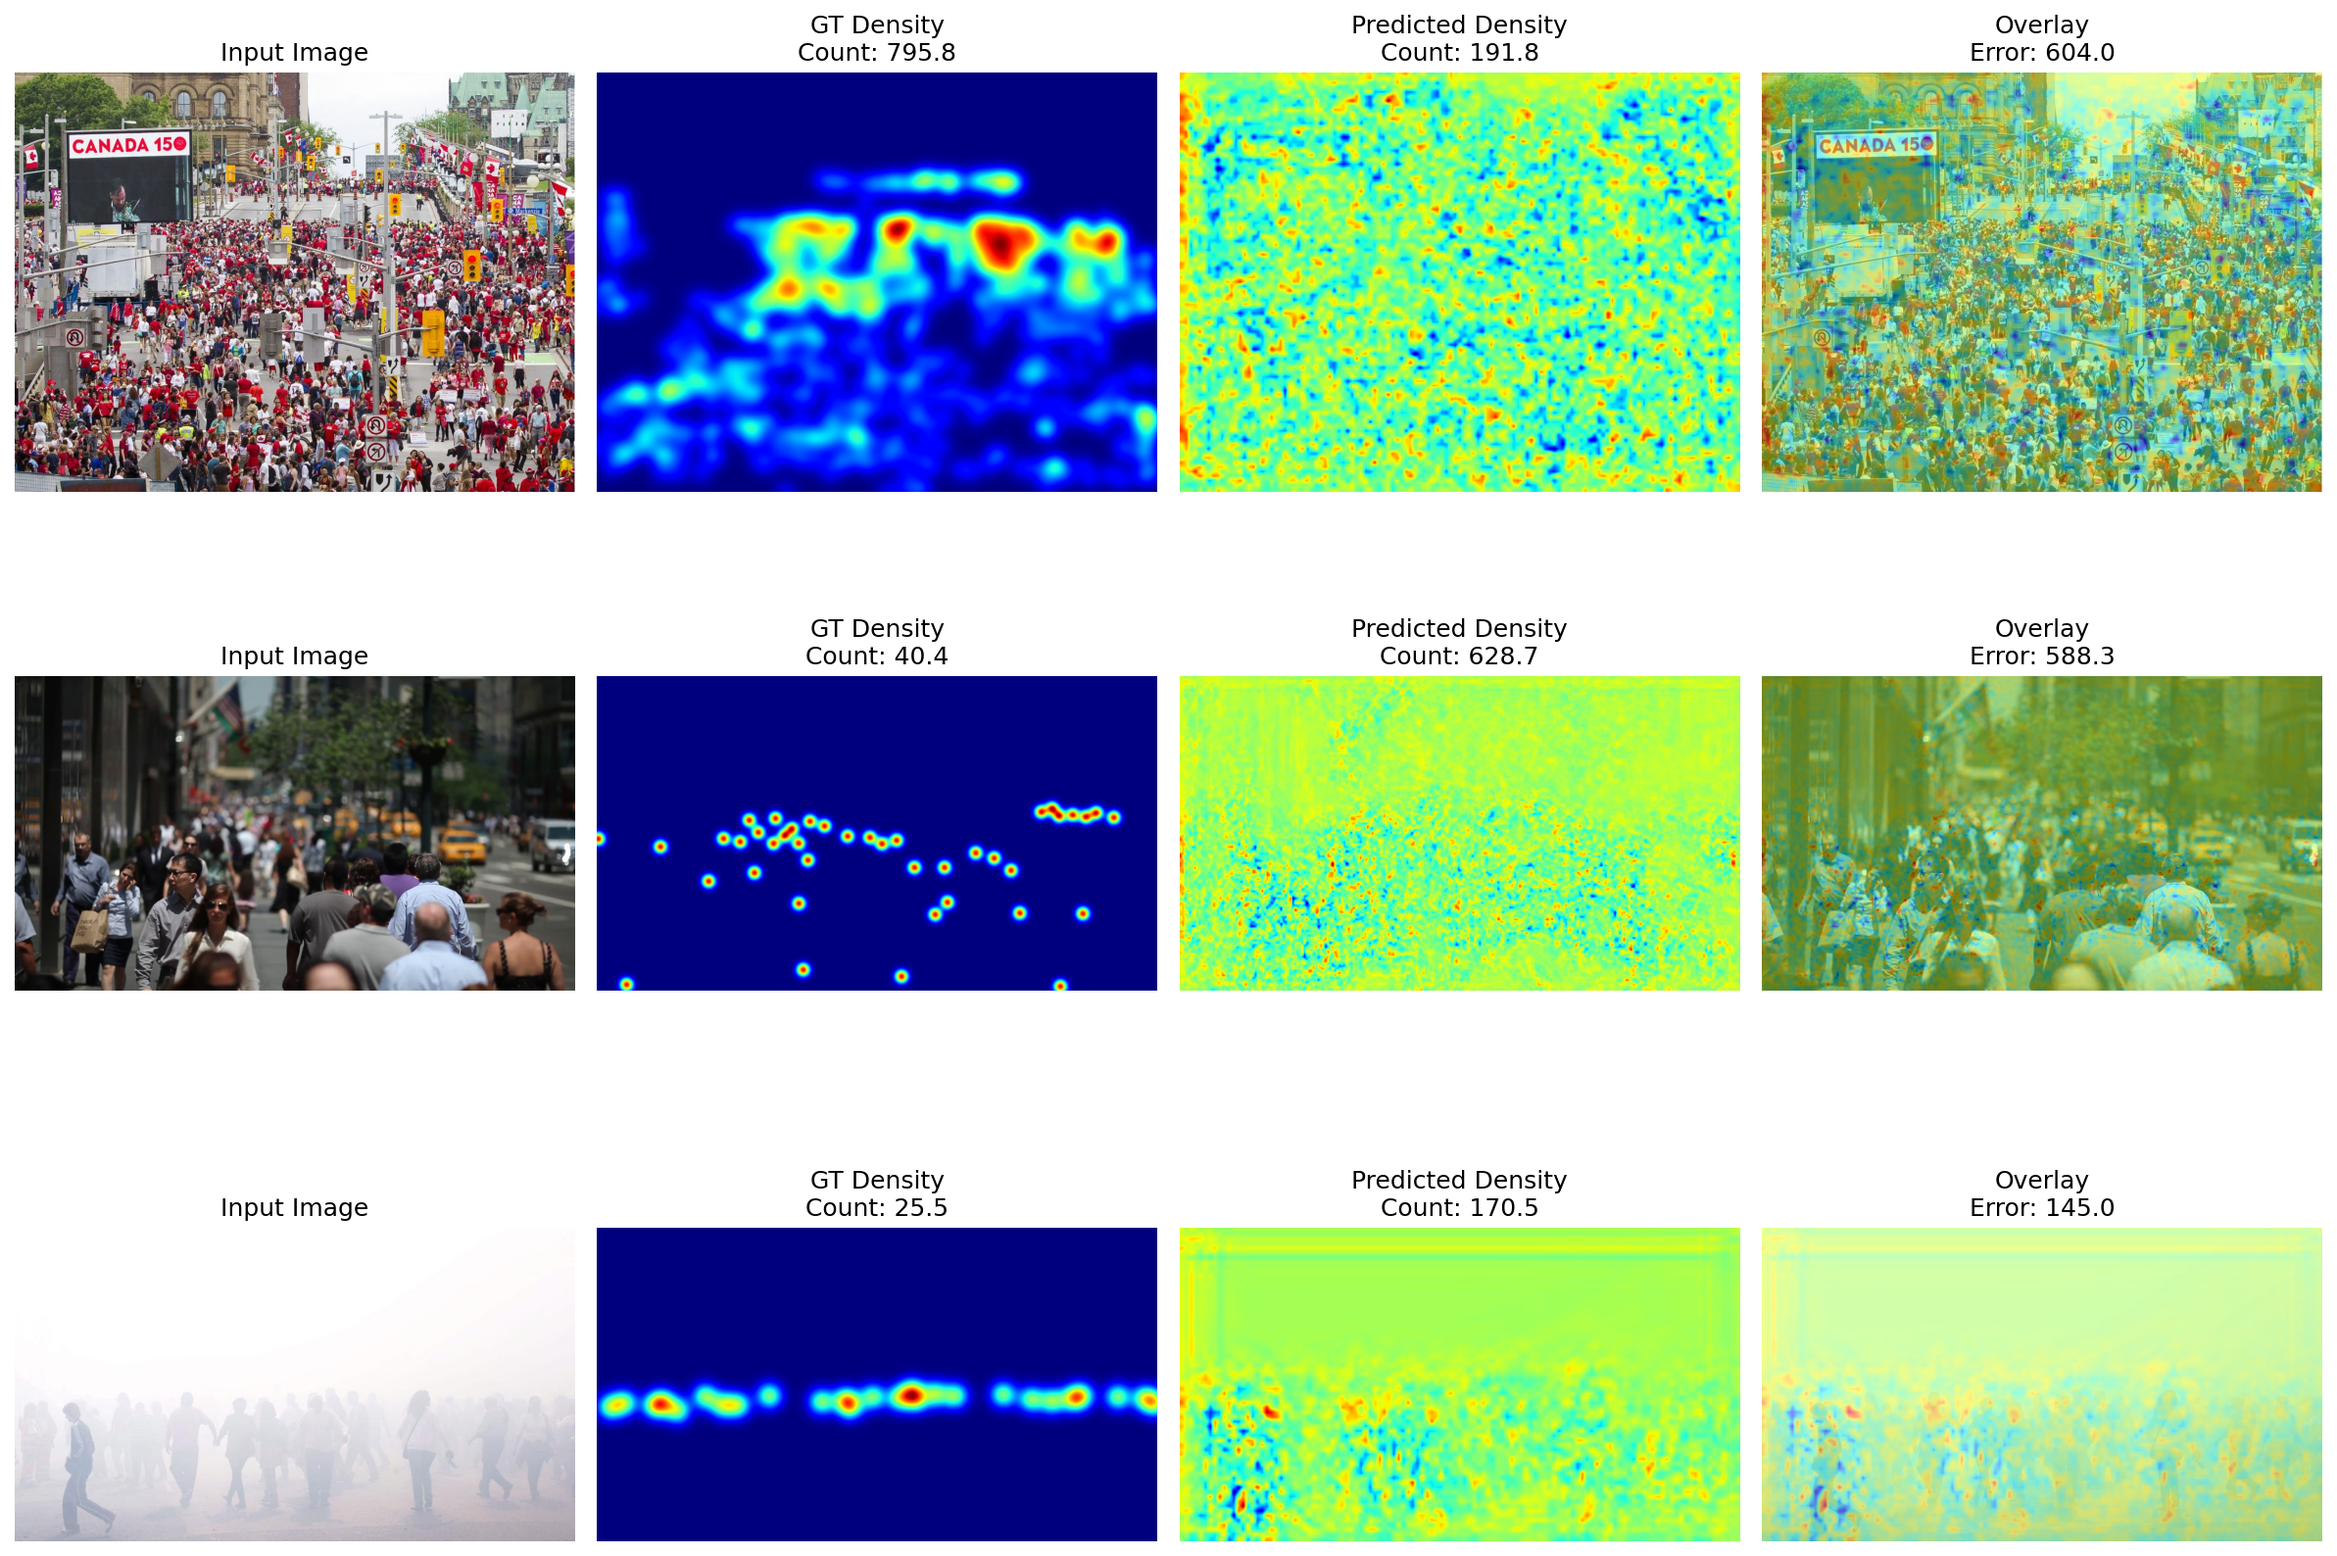
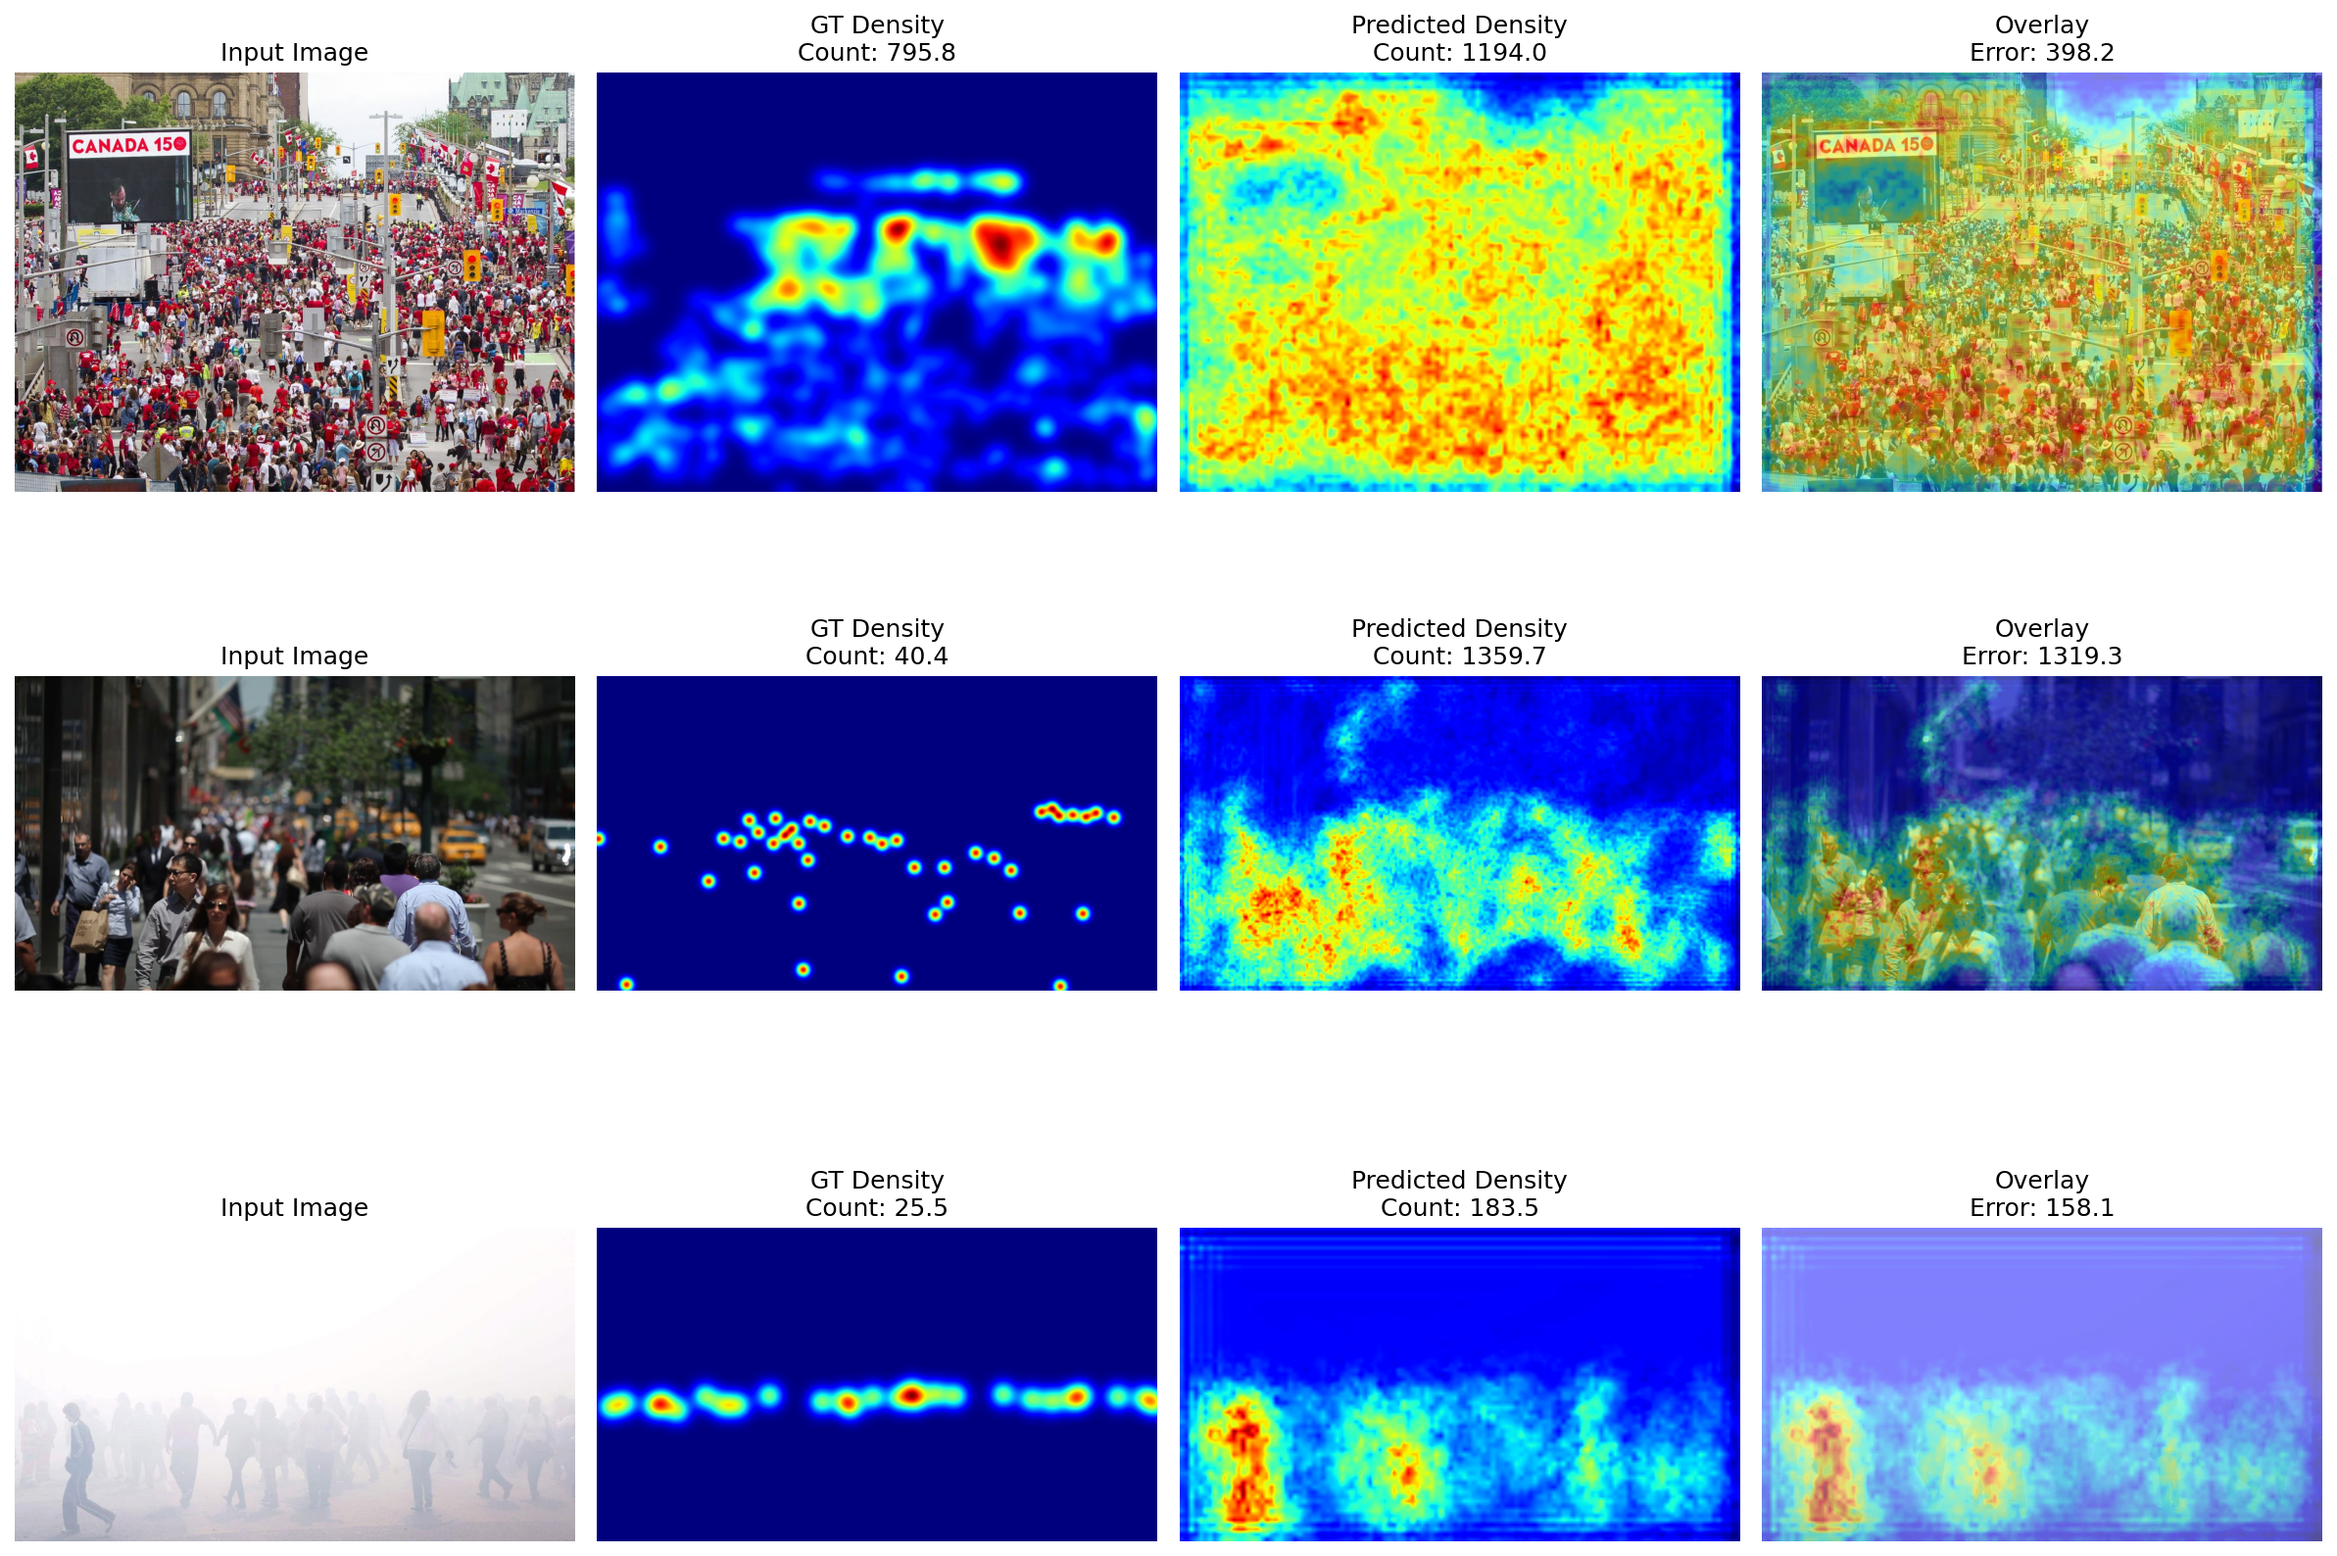
Handle scale mismatch

Changed region(s): [[0.4964, 0.0309, 1.0, 0.3394], [0.4964, 0.7714, 1.0, 1.0], [0.4964, 0.4011, 1.0, 0.648]]

diff --git a/train.py b/train.py
@@ -364,13 +364,22 @@ def train_one_epoch(model, dataloader, criterion, optimizer, device, epoch):
         # Forward pass
         outputs = model(images)
 
-        # Resize density map if needed to match output size
+        # CRITICAL FIX: Handle size mismatch properly
         if outputs.shape != density_maps.shape:
-            density_maps = torch.nn.functional.interpolate(
+            # Calculate the scaling factor
+            scale_factor = (density_maps.shape[2] / outputs.shape[2]) * (density_maps.shape[3] / outputs.shape[3])
+            
+            # Downsample GT density map
+            density_maps_scaled = torch.nn.functional.interpolate(
                 density_maps, size=outputs.shape[2:], mode='bilinear', align_corners=False
             )
+            
+            # Scale the values to preserve the count
+            density_maps_scaled = density_maps_scaled * scale_factor
+        else:
+            density_maps_scaled = density_maps
 
-        loss = criterion(outputs, density_maps)
+        loss = criterion(outputs, density_maps_scaled)
 
         # Backward pass
         loss.backward()
@@ -394,12 +403,22 @@ def validate(model, dataloader, criterion, device):
 
             outputs = model(images)
 
+            # CRITICAL FIX: Handle size mismatch properly
             if outputs.shape != density_maps.shape:
-                density_maps = torch.nn.functional.interpolate(
+                # Calculate the scaling factor
+                scale_factor = (density_maps.shape[2] / outputs.shape[2]) * (density_maps.shape[3] / outputs.shape[3])
+                
+                # Downsample GT density map
+                density_maps_scaled = torch.nn.functional.interpolate(
                     density_maps, size=outputs.shape[2:], mode='bilinear', align_corners=False
                 )
+                
+                # Scale the values to preserve the count
+                density_maps_scaled = density_maps_scaled * scale_factor
+            else:
+                density_maps_scaled = density_maps
 
-            loss = criterion(outputs, density_maps)
+            loss = criterion(outputs, density_maps_scaled)
             running_loss += loss.item()
 
             # Calculate counting metrics
@@ -627,7 +646,7 @@ if __name__ == "__main__":
     CHECKPOINT_DIR = './CSRNETcheckpoints'
     BATCH_SIZE = 4
     CROP_SIZE = 512
-    NUM_EPOCHS = 20
+    NUM_EPOCHS = 30
     LEARNING_RATE = 1e-6
     WEIGHT_DECAY = 5e-4
     EDGE_METHOD = 'canny'  # or 'sobel'
@@ -642,8 +661,8 @@ if __name__ == "__main__":
         weight_decay=WEIGHT_DECAY,
         checkpoint_dir=CHECKPOINT_DIR,
         edge_method=EDGE_METHOD,
-        resume_from=None
-        #resume_from='./CSRNETcheckpoints/checkpoint_epoch_2.pth' #set to path to a checkpoint to resume from that checkpoint
+        #resume_from=None
+        resume_from='./CSRNETcheckpoints/checkpoint_epoch_20.pth' #set to path to a checkpoint to resume from that checkpoint
     )
 
     
